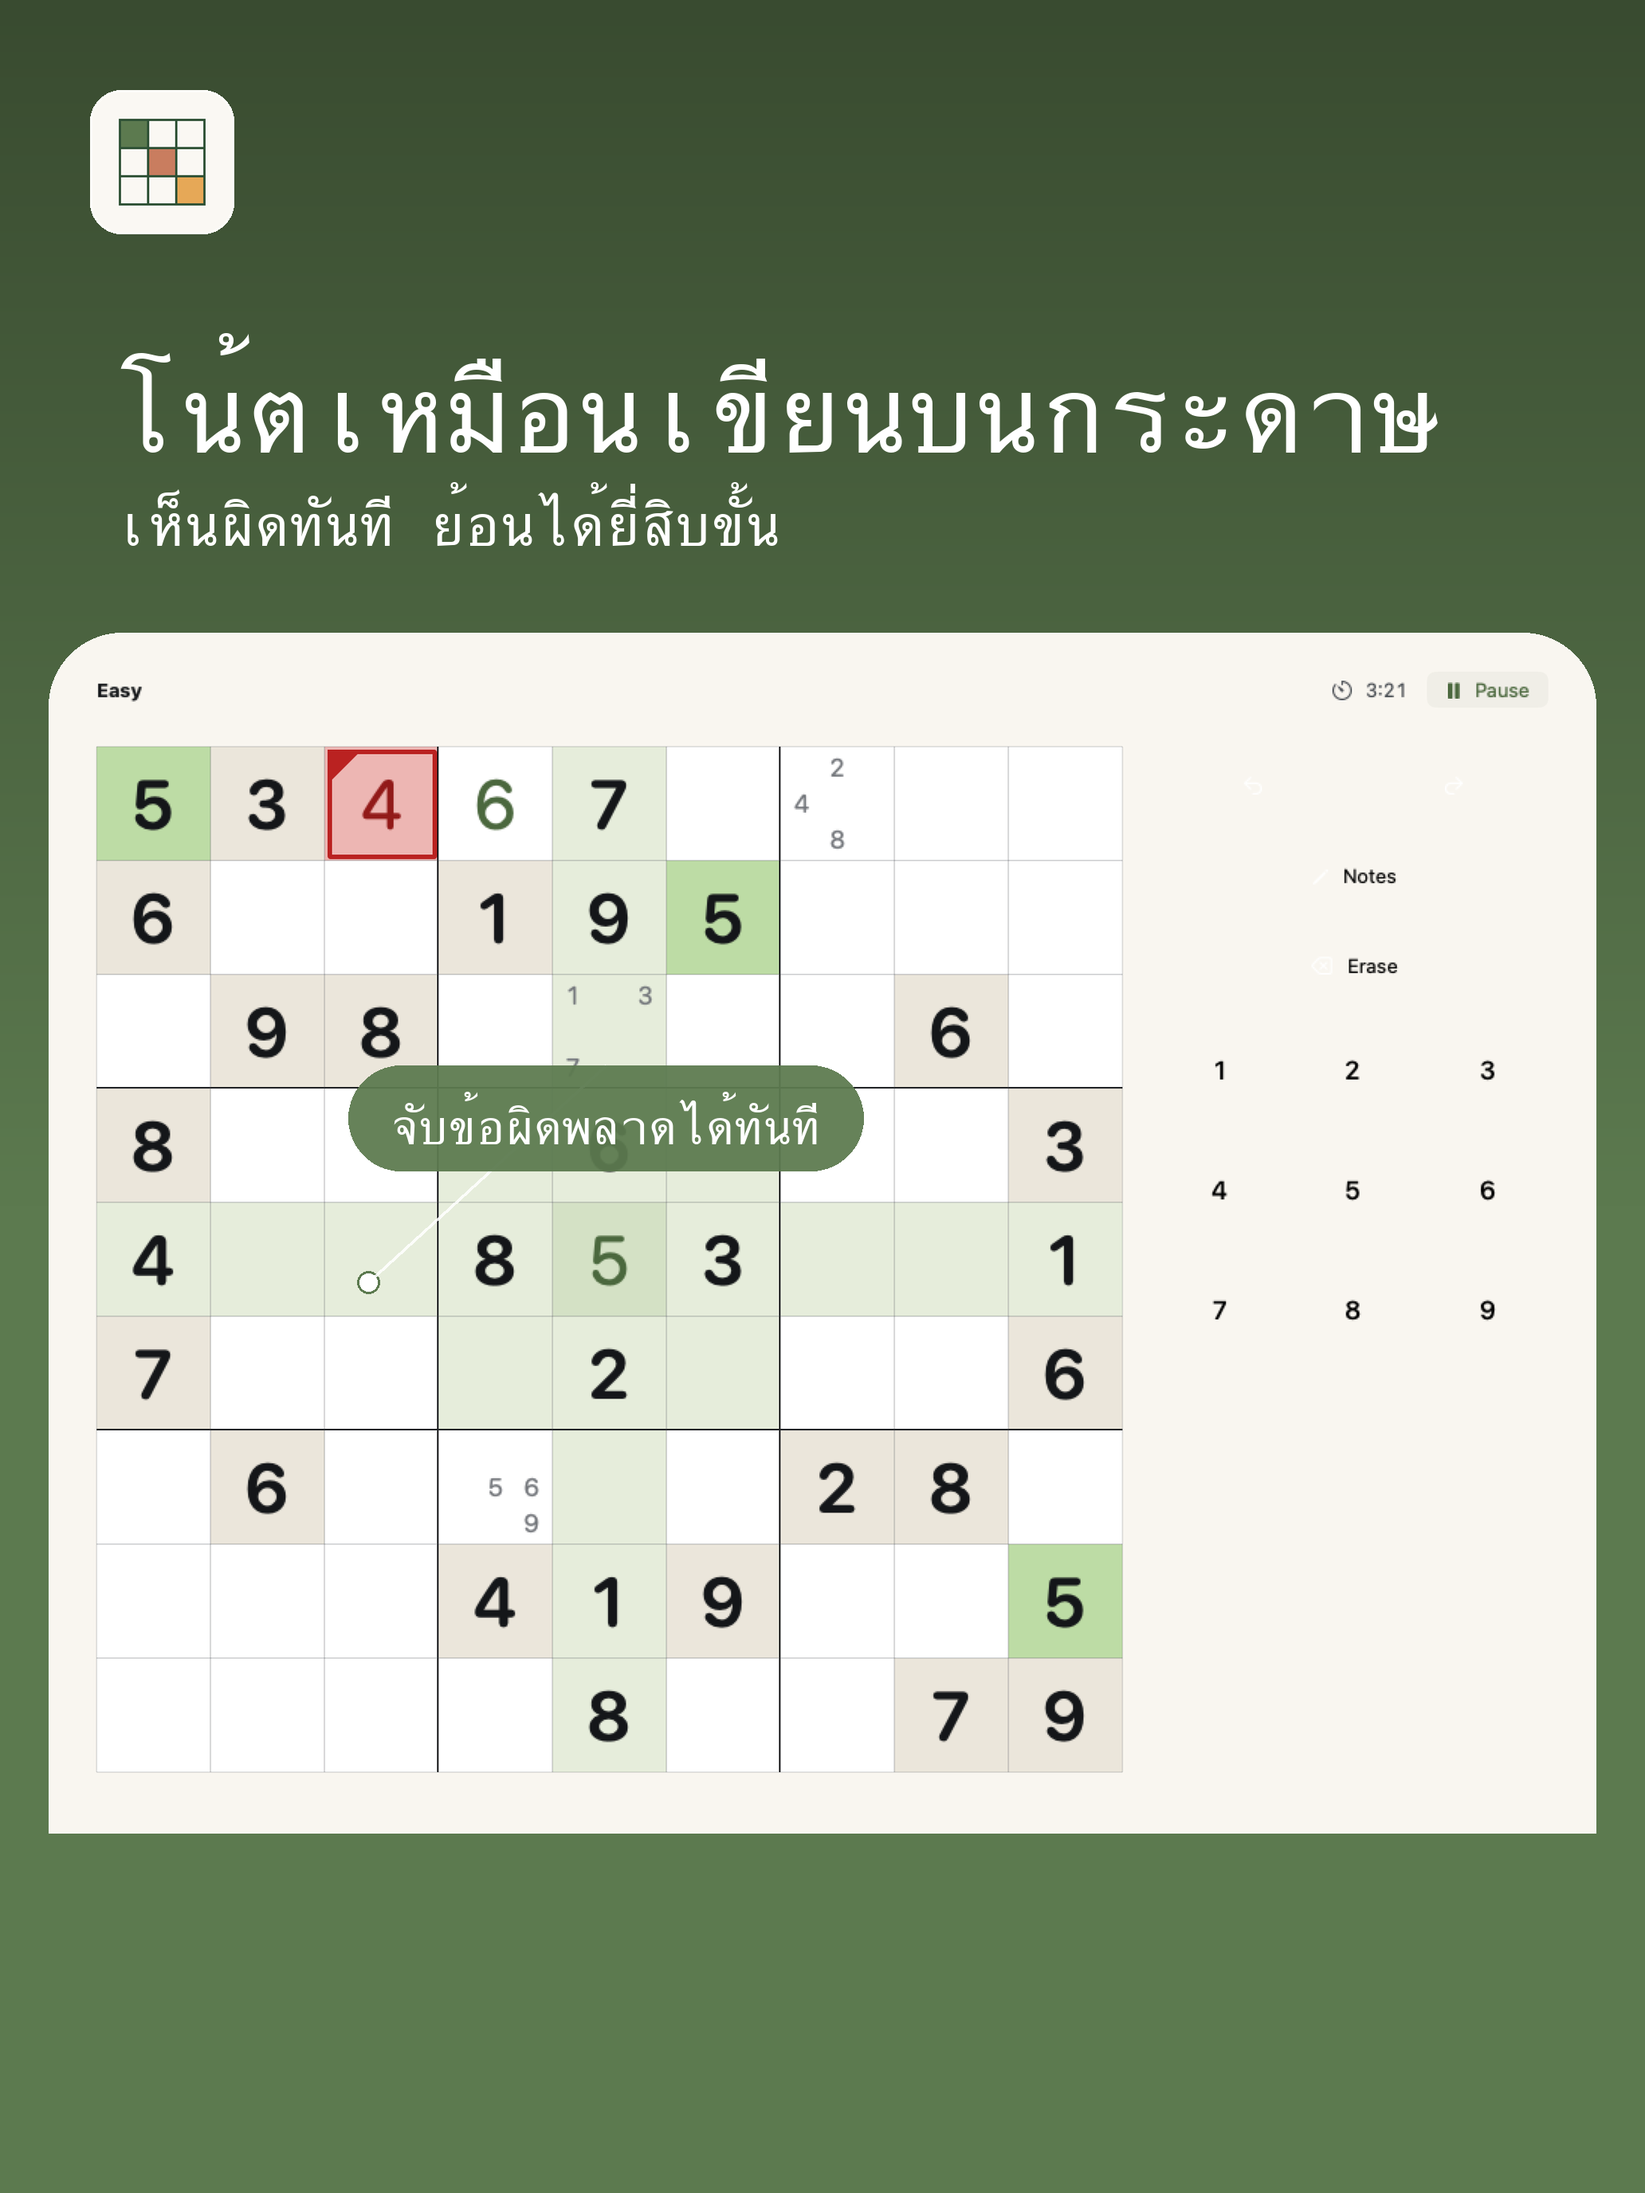
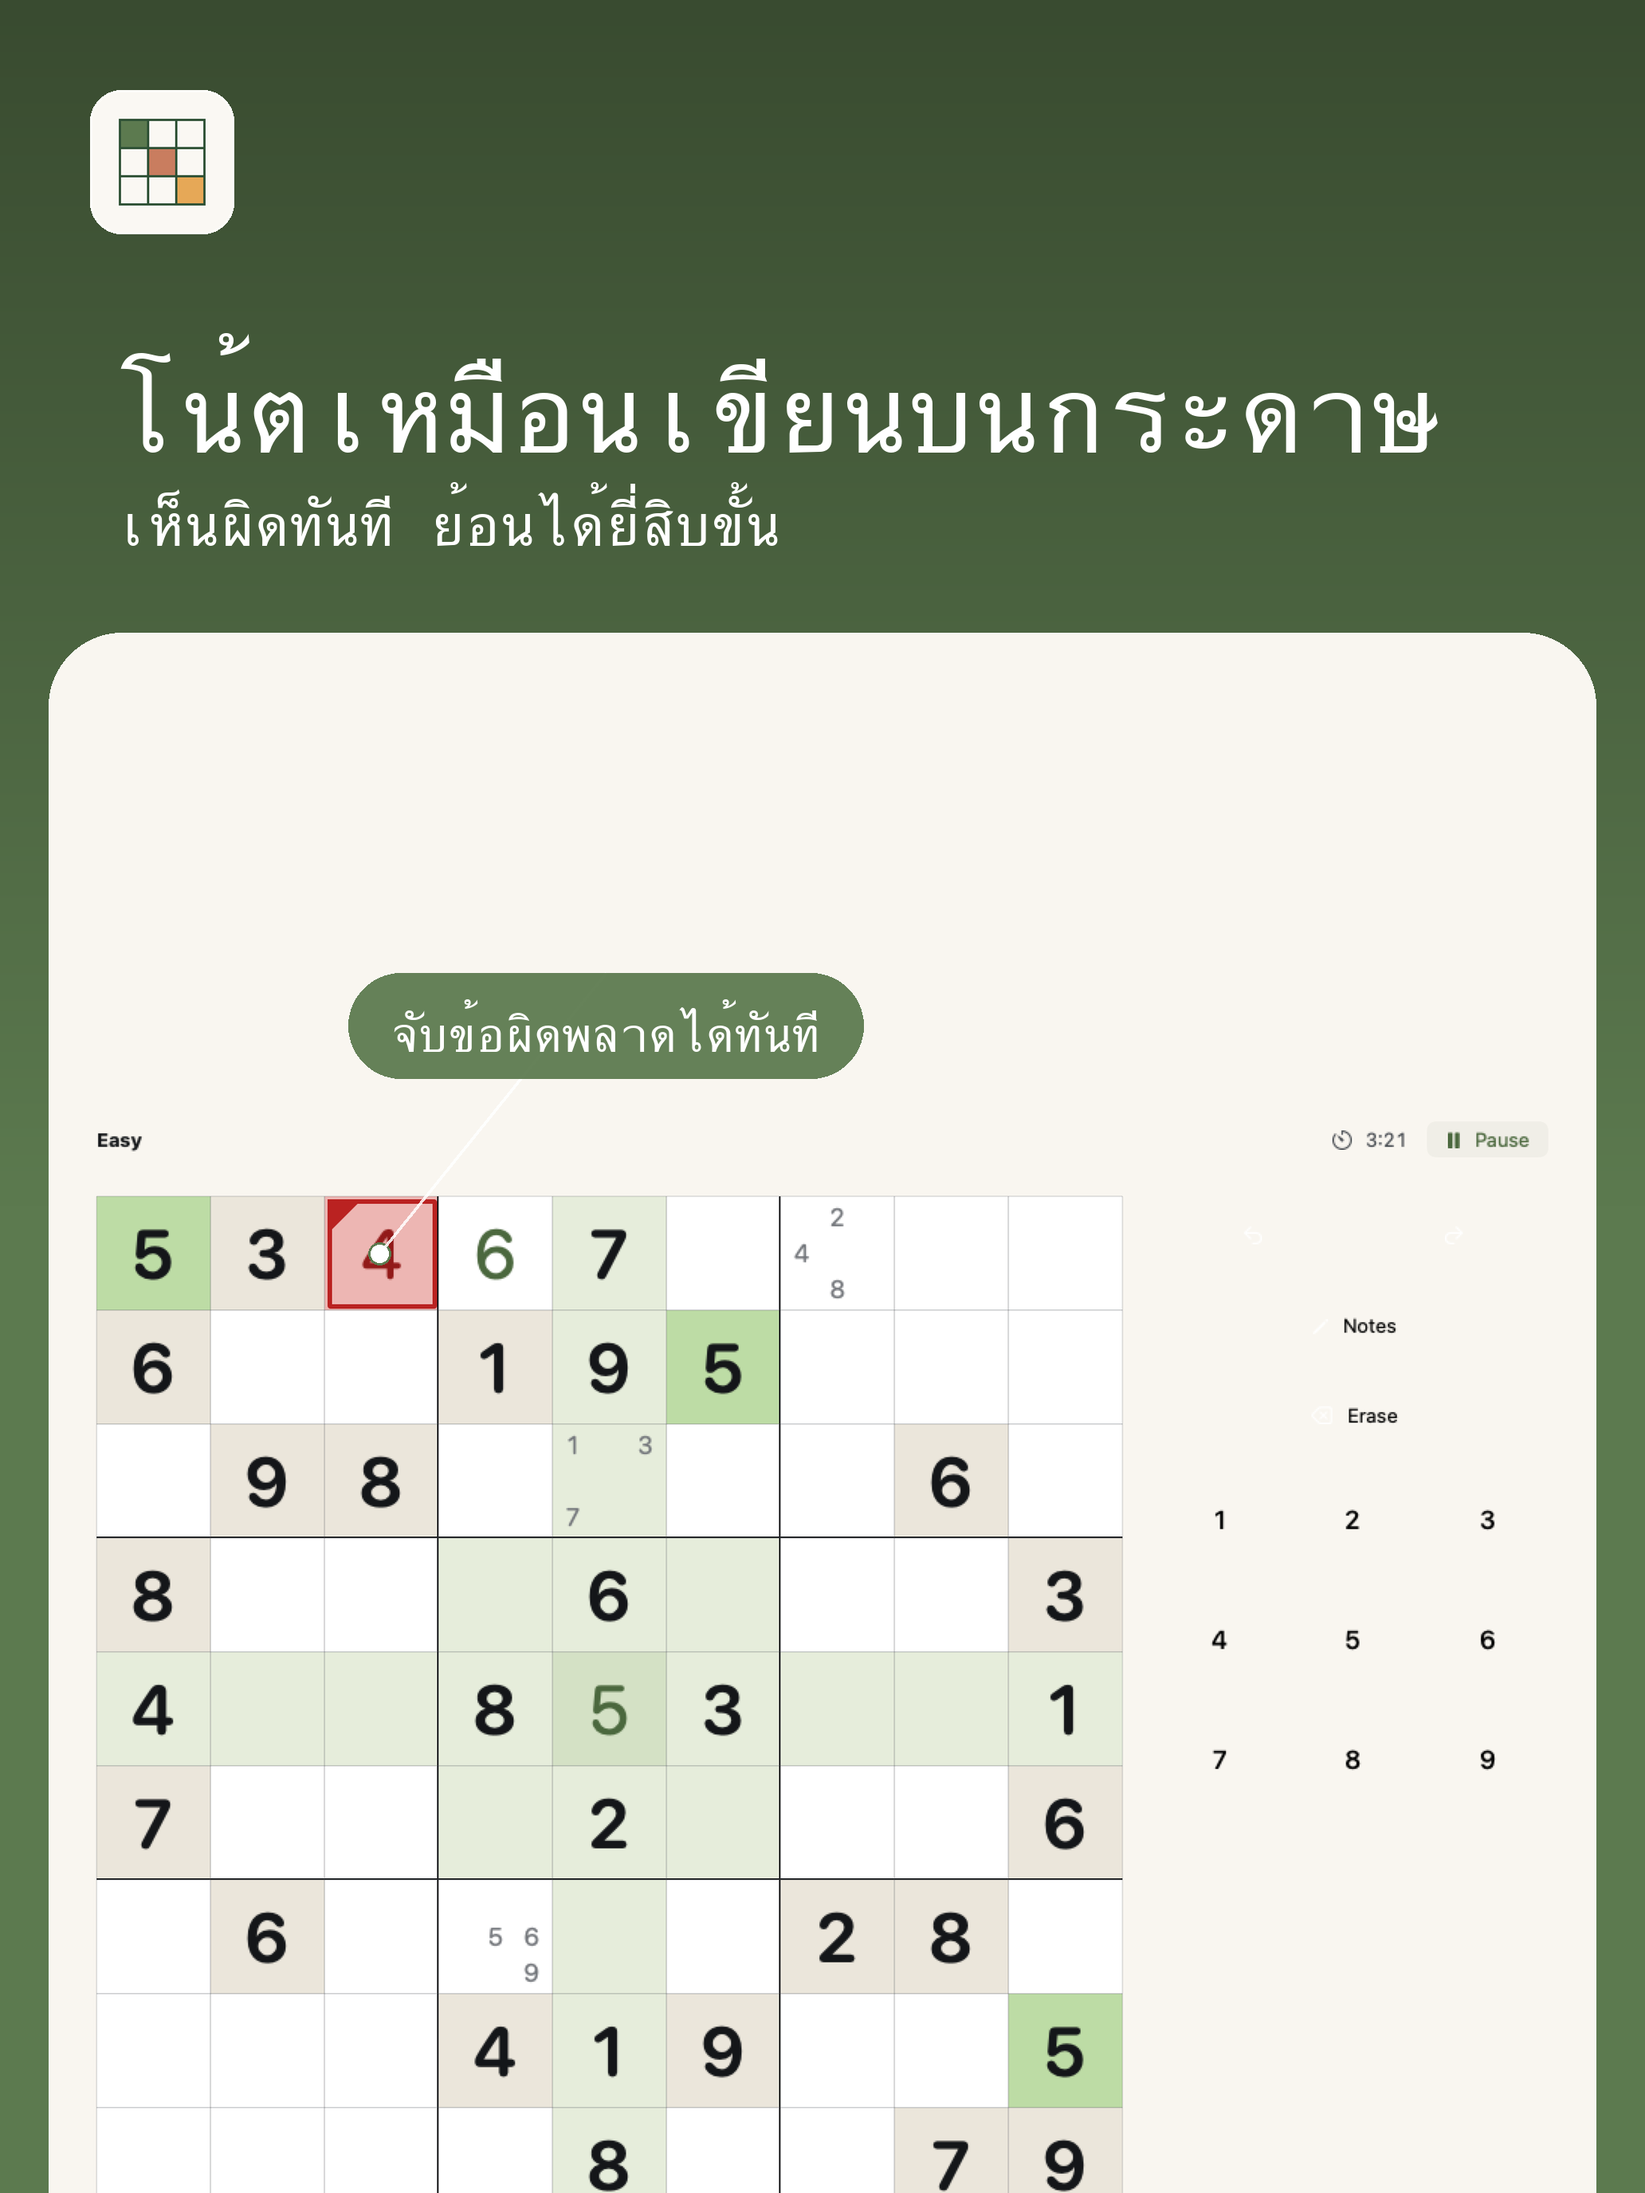
chore(store): re-measure the Sudoku ipad-13 03-board callout and regenerate the frames
The re-recorded Board-iPad-light-pencilNotesWithError baseline (board 684 pt,
block centred) moves the red error cell and the floating header: anchor
re-measured from the reddish-pixel bbox (0.207, 0.315) → (0.214, 0.301), chip
raised (0.360, 0.210) → (0.360, 0.165) so it sits in the empty band above the
header instead of level with the header row. `mise run store:screenshots
build-ascspec`: 168 slots, 0 failures; exactly the 7 sudoku/ipad-13/*/03-board
frames changed; `scan:store_frame_drift` PASS without the label.

part of #1105

diff --git a/scripts/build-ascspec-screenshots.py b/scripts/build-ascspec-screenshots.py
@@ -355,11 +355,23 @@ CALLOUTS = {
         # header text and the grid), horizontally still centered in the
         # "Easy"...pause-controls gap (x=146-1706 of 2064, 76% of width) so
         # the leader line still reads as pointing at the same row.
-        # ipad-13 keeps the snapshot-era values (the iPad slot is snapshot-
-        # sourced until #1110); only iphone-6.9 was re-measured against the
-        # capture panel. Re-measure ipad-13 when #1110 flips it to CaptureSlot.
-        "anchor": {"iphone-6.9": (0.500, 0.136), "ipad-13": (0.207, 0.315)},
-        "chip_at": {"iphone-6.9": (0.408, 0.043), "ipad-13": (0.360, 0.210)},
+        # ipad-13 is snapshot-sourced (the iPad slot stays on
+        # BoardViewPencilNotesTests until #1110 flips it to CaptureSlot);
+        # only iphone-6.9 was re-measured against the capture panel above.
+        # #1105 round 4 RE-MEASURED ipad-13's anchor against the re-recorded
+        # `snapshotPencilNotesWithError_iPad_light` baseline (board 684pt,
+        # width-bound in portrait so the `.leading`/`.center` alignment is
+        # moot — the whole header/board/rail stack centres as one block,
+        # matching today's shipped layout per the #1105 PM ruling): red
+        # error cell bbox 368-517 x 752-902 px of the 2064x2752 PNG, centre
+        # (442.5, 827) → fraction (0.214, 0.301). chip_at raised 0.210 →
+        # 0.165: the 684pt board pushes the floating header ~22pt up, and at
+        # 0.210 the chip sat level with the header row, its bottom edge on
+        # the grid's first row; at 0.165 it is back in the empty band above
+        # the header (eyeballed on the regenerated en frame, dot on the red
+        # "4" cell).
+        "anchor": {"iphone-6.9": (0.500, 0.136), "ipad-13": (0.214, 0.301)},
+        "chip_at": {"iphone-6.9": (0.408, 0.043), "ipad-13": (0.360, 0.165)},
         "en": "Catches mistakes instantly", "zh-Hant": "即時抓出錯誤", "zh-Hans": "实时揪出错误",
         "ja": "ミスをその場で検出", "ko": "실수를 즉시 잡아냄",
         "es": "Detecta errores al instante", "th": "จับข้อผิดพลาดได้ทันที",
